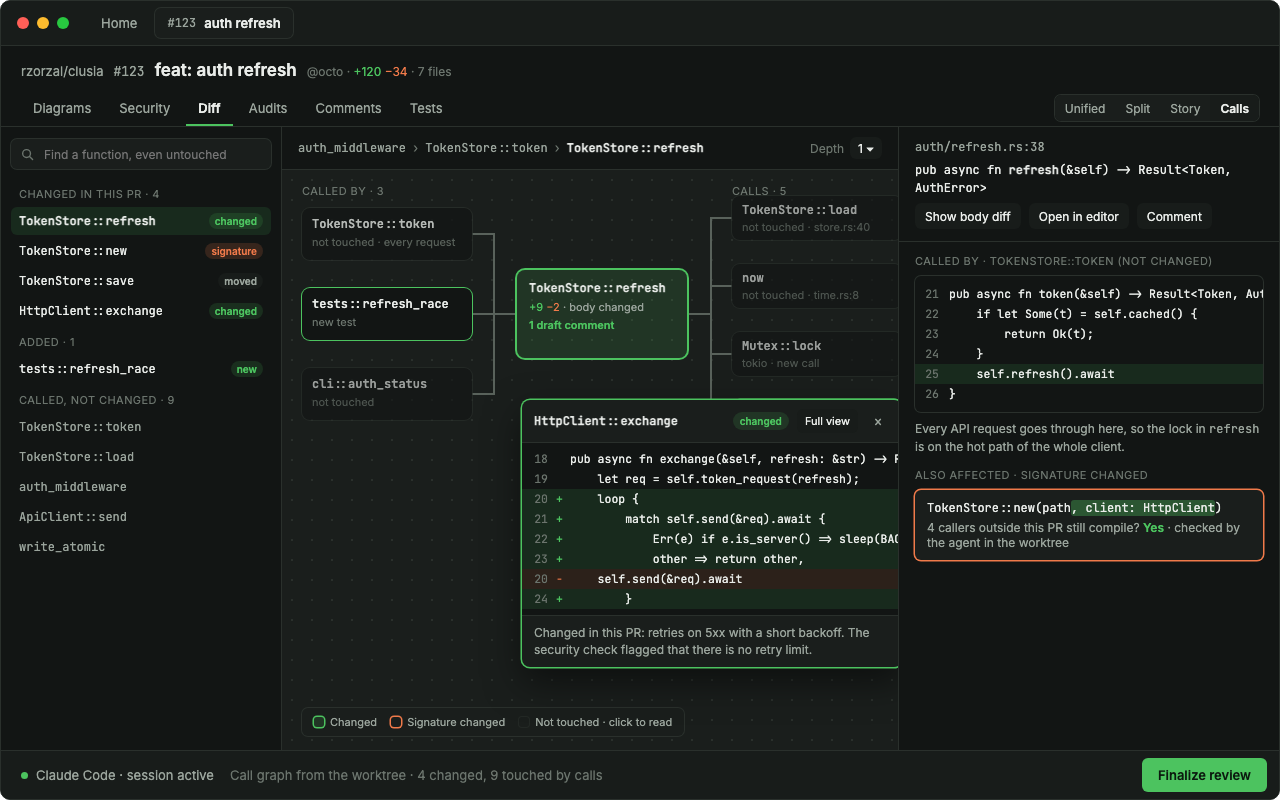
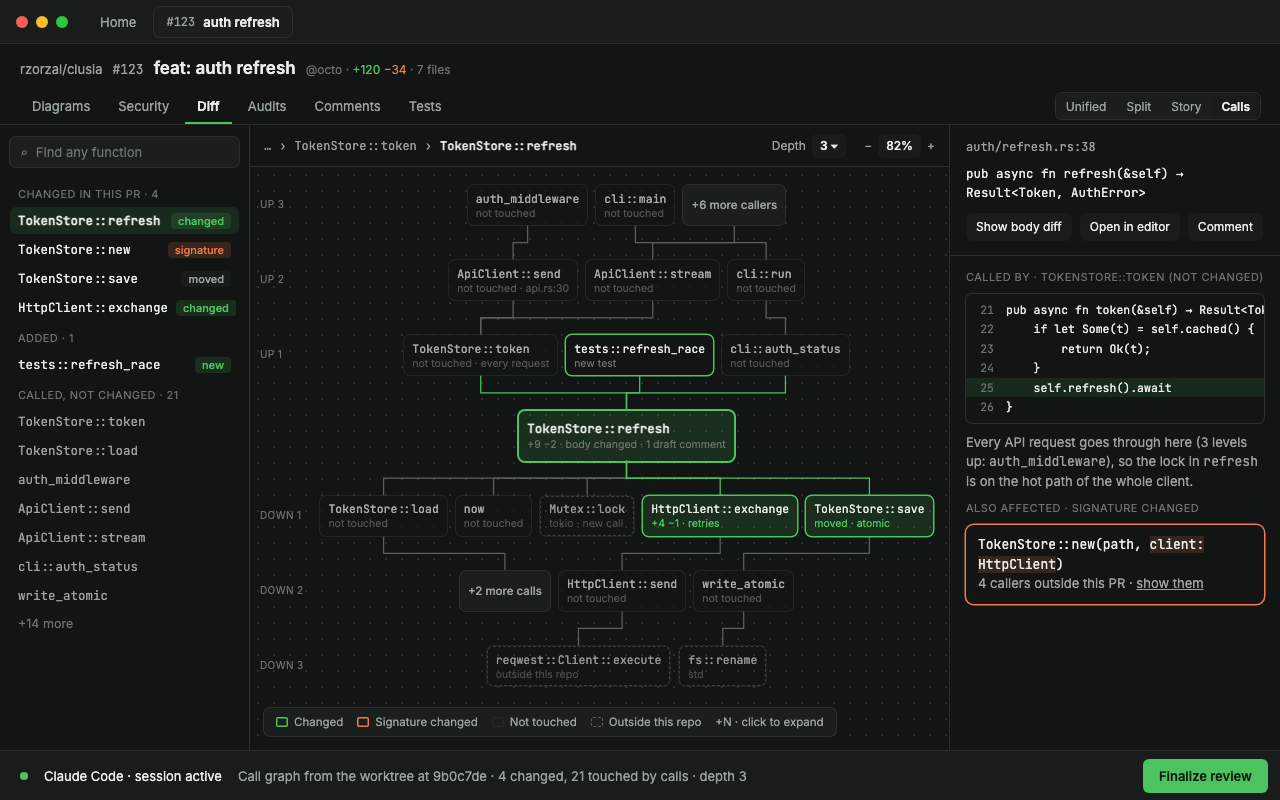
docs: Story and Calls mockups v2, light and dark: use cases, versions, the static story, depth 3 and unsupported languages

diff --git a/docs/mockups/src/DiffStory.html b/docs/mockups/src/DiffStory.html
@@ -1,0 +1,212 @@
+<!doctype html>
+<html lang="en">
+<head>
+<meta charset="utf-8">
+<title>Diff · Story</title>
+<link rel="stylesheet" href="https://fonts.googleapis.com/css2?family=Inter:wght@400;500;600;700&family=JetBrains+Mono:wght@400;500&display=swap">
+<style>
+:root{
+  --bg:#F6F7F5; --chrome:#EEF1EE; --surface:#FFFFFF; --code:#F6F7F5; --line:#E2E6E2; --fg:#1B1F1C; --muted:#5D665F; --faint:#8A938C;
+  --green:#2F9E44; --onGreen:#FFFFFF; --orange:#D9572B; --amber:#C98A04; --amberSoft:rgba(201,138,4,0.12);
+  --greenSoft:rgba(47,158,68,0.12); --orangeSoft:rgba(217,87,43,0.12); --sel:#E9F6EB; --addHl:rgba(47,158,68,0.24);
+}
+:root[data-theme="dark"]{
+  --bg:#121514; --chrome:#181C1A; --surface:#1A1E1C; --code:#121514; --line:#2A302C; --fg:#E9ECE9; --muted:#9AA49C; --faint:#6B746D;
+  --green:#4CC35F; --onGreen:#0C1A0F; --orange:#F07A4A; --amber:#E5AC2E; --amberSoft:rgba(229,172,46,0.14);
+  --greenSoft:rgba(76,195,95,0.14); --orangeSoft:rgba(240,122,74,0.16); --sel:rgba(76,195,95,0.12); --addHl:rgba(76,195,95,0.34);
+}
+*{box-sizing:border-box}
+body{margin:0;background:var(--bg)}
+.win{width:1280px;height:800px;display:flex;flex-direction:column;background:var(--bg);color:var(--fg);font:13px Inter,-apple-system,system-ui,sans-serif;overflow:hidden}
+.mono{font-family:'JetBrains Mono',monospace}
+.title{height:44px;flex:none;display:flex;align-items:center;gap:6px;padding:0 12px 0 16px;background:var(--chrome);border-bottom:1px solid var(--line)}
+.lights{display:flex;gap:8px;margin-right:14px}.lights i{width:12px;height:12px;border-radius:6px;display:block}
+.wtab{height:30px;display:flex;align-items:center;gap:8px;padding:0 12px;border-radius:6px}
+.wtab.on{background:var(--surface);box-shadow:0 0 0 1px var(--line)}
+.head{flex:none;display:flex;align-items:baseline;gap:10px;padding:14px 20px 10px}
+.sections{flex:none;display:flex;align-items:center;gap:4px;padding:0 20px;border-bottom:1px solid var(--line)}
+.sec{height:36px;padding:0 12px;display:flex;align-items:center;color:var(--muted)}
+.sec.on{color:var(--fg);font-weight:600;box-shadow:inset 0 -2px 0 var(--green)}
+.switch{display:flex;border-radius:6px;box-shadow:0 0 0 1px var(--line);overflow:hidden}
+.switch span{height:26px;padding:0 10px;display:flex;align-items:center;background:var(--surface);font-size:12px;color:var(--muted)}
+.switch span.on{background:var(--chrome);color:var(--fg);font-weight:600}
+.body{flex:1;min-height:0;display:flex}
+nav{width:248px;flex:none;display:flex;flex-direction:column;gap:4px;padding:14px 10px;border-right:1px solid var(--line)}
+.cap{color:var(--faint);font-size:11px;letter-spacing:.04em;text-transform:uppercase}
+.ch{display:flex;gap:10px;padding:8px 10px;border-radius:6px}
+.ch.now{background:var(--sel)}
+.ch .dot{width:20px;height:20px;flex:none;border-radius:10px;display:flex;align-items:center;justify-content:center;font-size:11px;font-weight:700;background:var(--chrome);color:var(--muted)}
+.ch.read .dot{background:var(--green);color:var(--onGreen)}
+.ch.now .dot{background:var(--greenSoft);color:var(--green)}
+.ch .t{display:flex;flex-direction:column;gap:2px;min-width:0}
+.ch .meta{color:var(--faint);font-size:11px}
+.ch.mech .name{color:var(--muted)}
+.ch.added{box-shadow:inset 0 0 0 1px var(--green);background-image:none;outline:1px dashed var(--green);outline-offset:-1px;box-shadow:none}
+.ch.changed{box-shadow:inset 0 0 0 1.5px var(--amber)}
+.ch.removed{opacity:.5}.ch.removed .name{text-decoration:line-through}
+.hist{font-size:10px;font-weight:600;padding:1px 6px;border-radius:4px;margin-left:6px}
+.hist.a{background:var(--greenSoft);color:var(--green)}.hist.c{background:var(--amberSoft);color:var(--amber)}.hist.r{background:var(--chrome);color:var(--faint)}
+.foot{padding:8px;color:var(--faint);font-size:11px;line-height:1.45}
+.ver{display:flex;align-items:center;gap:6px;padding:8px;border-top:1px solid var(--line);margin:0 -10px -14px;padding:10px 18px 12px;flex-direction:column;align-items:stretch}
+.ver .row{display:flex;align-items:center;gap:6px;font-size:12px}
+.arrow{width:22px;height:22px;border-radius:5px;display:flex;align-items:center;justify-content:center;box-shadow:0 0 0 1px var(--line);background:var(--surface);color:var(--muted);font-size:10px}
+.arrow.off{opacity:.4}
+.check{display:flex;align-items:center;gap:6px;font-size:12px;color:var(--muted)}
+.box{width:14px;height:14px;border-radius:3px;box-shadow:inset 0 0 0 1px var(--faint);display:flex;align-items:center;justify-content:center;font-size:10px}
+.box.on{background:var(--green);box-shadow:none;color:var(--onGreen)}
+main{flex:1;min-width:0;padding:16px 22px;display:flex;flex-direction:column;gap:12px;overflow:hidden}
+.card{background:var(--surface);border-radius:8px;box-shadow:0 0 0 1px var(--line);padding:14px 16px}
+.card.cur{box-shadow:0 0 0 1.5px var(--green)}
+.card.cur.changed{box-shadow:0 0 0 1.5px var(--amber)}
+.pill{height:22px;padding:0 8px;border-radius:4px;display:inline-flex;align-items:center;background:var(--chrome);font-size:12px}
+.pill.g{background:var(--greenSoft);color:var(--green);font-weight:500}.pill.o{background:var(--orangeSoft);color:var(--orange);font-weight:500}
+.flow{display:flex;align-items:center;gap:8px;color:var(--faint);font-size:12px}
+.uc{display:flex;flex-wrap:wrap;align-items:center;gap:6px;font-size:12px}
+.ucchip{height:22px;padding:0 9px;border-radius:11px;display:inline-flex;align-items:center;gap:6px;box-shadow:inset 0 0 0 1px var(--line);color:var(--fg);background:var(--bg)}
+.ucchip i{width:7px;height:7px;border-radius:4px;display:block}
+.code{background:var(--code);border-radius:6px;padding:8px 0;font:12.5px/1.65 'JetBrains Mono',monospace}
+.code div{display:flex;gap:18px;padding:0 16px;white-space:pre}.code .n{color:var(--faint);width:22px;text-align:right}
+.hl{background:var(--addHl)}
+.linked{display:flex;align-items:center;gap:10px;padding:8px 10px;border-radius:6px;background:var(--bg)}
+.tag{font-size:10px;font-weight:700;letter-spacing:.03em;padding:2px 6px;border-radius:4px}
+.btn{height:30px;padding:0 12px;border-radius:6px;display:inline-flex;align-items:center;background:var(--surface);box-shadow:0 0 0 1px var(--line)}
+.btn.p{background:var(--green);color:var(--onGreen);box-shadow:none;font-weight:600}
+.banner{display:flex;align-items:center;gap:10px;padding:10px 14px;border-radius:8px;font-size:12.5px}
+.banner.warn{background:var(--amberSoft);color:var(--fg)}
+.banner.info{background:var(--chrome);color:var(--muted)}
+.spin{width:12px;height:12px;border-radius:6px;border:2px solid var(--line);border-top-color:var(--green)}
+.status{height:50px;flex:none;display:flex;align-items:center;gap:16px;padding:0 12px 0 20px;background:var(--chrome);border-top:1px solid var(--line)}
+.ghost{color:var(--faint);text-decoration:line-through}
+</style>
+</head>
+<body>
+<div class="win" id="win"></div>
+<script>
+const q = new URLSearchParams(location.search);
+const theme = q.get('theme') || 'light';
+const state = q.get('state') || 'written'; // written | compare | outdated | static
+document.documentElement.dataset.theme = theme;
+const UC = {
+  expired: ['Request with an expired token', '#2F9E44'],
+  twotabs: ['Two requests refresh at once', '#3B82C4'],
+  restart: ['Restart keeps the login', '#9B59B6'],
+};
+const chip = (k) => `<span class="ucchip"><i style="background:${UC[k][1]}"></i>${UC[k][0]}</span>`;
+
+const chapters = {
+  written: [
+    ['read', '✓', 'Refresh one minute early', 'refresh.rs · 3 lines · 1 thread'],
+    ['now', '2', 'One refresh at a time', 'refresh.rs, store.rs · 1 draft comment'],
+    ['', '3', 'Safer saves', 'store.rs · moved block'],
+    ['', '4', 'Tests for the race', 'tests/refresh.rs · new'],
+    ['mech', '5', 'Small and mechanical', 'renames, imports, changelog · 4 files'],
+  ],
+  compare: [
+    ['read', '✓', 'Refresh one minute early', 'refresh.rs · 3 lines · 1 thread', ''],
+    ['now changed', '2', 'One refresh at a time', 'refresh.rs, store.rs · lock released early', 'c'],
+    ['', '3', 'Safer saves', 'store.rs · moved block', ''],
+    ['added', '4', 'Retry with a limit', 'client/http.rs · new in version 2', 'a'],
+    ['', '5', 'Tests for the race', 'tests/refresh.rs · new', ''],
+    ['removed', '–', 'Retry forever on 5xx', 'client/http.rs · gone in version 2', 'r'],
+    ['mech', '6', 'Small and mechanical', 'renames, imports, changelog · 4 files', ''],
+  ],
+  static: [
+    ['now', '1', 'HttpClient::exchange', 'client/http.rs · +4 −1'],
+    ['', '2', 'TokenStore::save', 'auth/store.rs · moved, +6 −1'],
+    ['', '3', 'TokenStore::new', 'auth/store.rs · signature'],
+    ['', '4', 'TokenStore::refresh', 'auth/refresh.rs · +9 −2'],
+    ['', '5', 'tests::refresh_race', 'tests/refresh.rs · new'],
+    ['mech', '6', 'Other files', 'CHANGELOG.md, mod.rs, Cargo.toml · 4 files'],
+  ],
+};
+chapters.outdated = chapters.written;
+const list = chapters[state];
+const histLabel = { a: 'added', c: 'changed', r: 'removed' };
+const navItems = list.map(([cls, mark, name, meta, h]) => `
+  <div class="ch ${cls}"><span class="dot">${mark}</span><span class="t">
+    <span class="name" style="font-weight:${cls.includes('now') ? 600 : 400}">${name}${h ? `<span class="hist ${h}">${histLabel[h]}</span>` : ''}</span>
+    <span class="meta">${meta}</span></span></div>`).join('');
+
+const verBlock = state === 'static' ? `
+  <div class="foot">Ordered from the code: each function comes after the ones it calls. Claude Code is writing names, a summary and the use cases.</div>`
+  : `
+  <div class="foot">Steps are ordered so each one only needs the ones before it. Written by Claude Code from commit <span class="mono">${state === 'compare' ? '9b0c7de' : '3f2a91c'}</span>; every line still links to the real diff.</div>
+  <div class="ver">
+    ${state === 'compare'
+      ? '<div class="row"><span class="arrow">◀</span><span style="flex:1;text-align:center">Version 2 of 2</span><span class="arrow off">▶</span></div><div class="check"><span class="box on">✓</span>Show changes since version 1</div>'
+      : '<div class="row"><span class="arrow off">◀</span><span style="flex:1;text-align:center">Version 1 of 1</span><span class="arrow off">▶</span></div>'}
+  </div>`;
+
+const summary = state === 'static' ? '' : `
+  <div class="card" style="display:flex;flex-direction:column;gap:10px">
+    <div style="line-height:1.5"><b>In one sentence:</b> tokens are now refreshed a minute before they expire, and only one request refreshes at a time; the others wait and reuse the new token.</div>
+    <div class="flow"><span style="width:44px">Before</span><span class="pill">request A</span>→<span class="pill">exchange</span><span style="width:12px"></span><span class="pill">request B</span>→<span class="pill o">exchange again · rejected</span></div>
+    <div class="flow"><span style="width:44px">After</span><span class="pill">request A</span>→<span class="pill g">lock</span>→<span class="pill">exchange</span><span style="width:12px"></span><span class="pill">request B</span>→<span class="pill">waits</span>→<span class="pill g">reuses the new token</span></div>
+    <div class="uc"><span style="color:var(--faint);width:${state === 'outdated' ? 'auto' : 'auto'}">Use cases it touches</span>${chip('expired')}${chip('twotabs')}${chip('restart')}</div>
+  </div>`;
+
+const banners = {
+  outdated: `<div class="banner warn"><span style="color:var(--amber);font-weight:700">●</span><span style="flex:1">Written for commit <span class="mono">3f2a91c</span>. The pull request is now at <span class="mono">9b0c7de</span> (2 new commits); the steps on the left still follow the old commit.</span><span class="btn p" style="height:26px">Rewrite</span></div>`,
+  static: `<div class="banner info"><span class="spin"></span><span style="flex:1">Claude Code is writing the story: names, a summary and the use cases. Meanwhile the steps follow the code, each function after the ones it calls.</span><span class="btn" style="height:26px">Stop</span></div>`,
+  compare: `<div class="banner info" style="gap:14px"><b style="color:var(--fg)">Changes since version 1</b>
+     <span style="display:flex;align-items:center;gap:6px"><span style="width:14px;height:10px;border-radius:2px;outline:1px dashed var(--green)"></span>Added</span>
+     <span style="display:flex;align-items:center;gap:6px"><span style="width:14px;height:10px;border-radius:2px;box-shadow:inset 0 0 0 1.5px var(--amber)"></span>Changed</span>
+     <span style="display:flex;align-items:center;gap:6px"><span class="ghost">Removed</span></span>
+     <span style="flex:1"></span><span>1 added · 1 changed · 1 removed</span></div>`,
+};
+
+const stepCode = state === 'compare'
+  ? [[12, '    refresh_lock: Mutex<()>,', 0], [44, '    let fresh = {', 1], [45, '        let _guard = self.refresh_lock.lock().await;', 1], [46, '        self.reuse_or_exchange(&token).await?', 1], [47, '    };', 1]]
+  : [[12, '    refresh_lock: Mutex<()>,', 1], [43, '    }', 0], [44, '    let _guard = self.refresh_lock.lock().await;', 1], [45, '    let fresh = self.client.exchange(&token.refresh).await?;', 0]];
+const code = stepCode.map(([n, c, h]) => `<div><span class="n">${n}</span><span class="${h ? 'hl' : ''}">${c.replace(/</g, '&lt;')}</span></div>`).join('');
+
+const step = state === 'static' ? `
+  <div class="card cur" style="display:flex;flex-direction:column;gap:12px">
+    <div style="display:flex;align-items:baseline;gap:10px"><span style="color:var(--green);font-weight:700">1</span><span style="font-size:15px;font-weight:600" class="mono">HttpClient::exchange</span><span style="flex:1"></span><span class="mono" style="font-size:11px;color:var(--muted)">http.rs:18</span></div>
+    <div style="color:var(--muted)">Changed body · called by <span class="mono">TokenStore::refresh</span> · comes first because nothing it calls changed.</div>
+    <div class="code">
+      <div><span class="n">18</span><span>pub async fn exchange(&amp;self, refresh: &amp;str) -&gt; Result&lt;Token&gt; {</span></div>
+      <div><span class="n">20</span><span class="hl">    loop {</span></div>
+      <div><span class="n">21</span><span class="hl">        match self.send(&amp;req).await {</span></div>
+      <div><span class="n">22</span><span class="hl">            Err(e) if e.is_server() =&gt; sleep(BACKOFF).await,</span></div>
+    </div>
+    <div style="display:flex;align-items:center;gap:12px"><span class="btn">Comment on this step</span><span style="text-decoration:underline;color:var(--muted)">Show the full diff</span><span style="flex:1"></span><span class="btn p">Mark read · next: TokenStore::save →</span></div>
+  </div>
+  <div class="card" style="display:flex;align-items:center;gap:10px;padding:12px 16px"><span style="color:var(--faint);font-weight:700">2</span><span class="mono" style="font-weight:600">TokenStore::save</span><span style="color:var(--muted)">moved from store.rs:20 to :88 · 34 lines only moved, 6 changed.</span></div>`
+  : `
+  <div class="card cur ${state === 'compare' ? 'changed' : ''}" style="display:flex;flex-direction:column;gap:10px">
+    <div style="display:flex;align-items:baseline;gap:10px"><span style="color:var(--green);font-weight:700">2</span><span style="font-size:15px;font-weight:600">One refresh at a time</span>${state === 'compare' ? '<span class="hist c">changed</span>' : ''}<span style="flex:1"></span><span class="mono" style="font-size:11px;color:var(--muted)">refresh.rs:44 · store.rs:12</span></div>
+    <div style="color:var(--muted);line-height:1.5">${state === 'compare'
+      ? 'A new lock makes concurrent callers queue behind the first one. <b style="color:var(--fg)">Since version 1:</b> the lock is released before the token is saved, so a slow disk no longer blocks requests.'
+      : 'A new lock makes concurrent callers queue behind the first one. From the commit <i>“serialize refreshes so the token is exchanged once”</i>.'}</div>
+    <div class="uc"><span style="color:var(--faint)">Use cases</span>${chip('twotabs')}${chip('expired')}</div>
+    <div class="code">${code}</div>
+    <div class="linked"><span class="tag" style="background:var(--greenSoft);color:var(--green)">YOUR DRAFT</span><span style="flex:1">Holding the lock across the network call means a slow exchange blocks every request.</span><span style="color:var(--faint)">You</span></div>
+    <div class="linked"><span class="tag" style="background:var(--orangeSoft);color:var(--orange)">AUDIT</span><span style="flex:1">The refresh lock is held across a network call (Concurrency)</span><span style="color:var(--faint)">Claude Code</span></div>
+    <div style="display:flex;align-items:center;gap:12px"><span class="btn">Comment on this step</span><span style="text-decoration:underline;color:var(--muted)">Show the full diff</span><span style="flex:1"></span><span class="btn p">Mark read · next: Safer saves →</span></div>
+  </div>
+  <div class="card" style="display:flex;align-items:center;gap:10px;padding:12px 16px"><span style="color:var(--faint);font-weight:700">3</span><b>Safer saves</b><span style="color:var(--muted)">save() moved from store.rs:20 to :88 and now writes to a temp file first.</span><span style="flex:1"></span>${chip('restart')}</div>`;
+
+const statusText = {
+  written: 'Draft saved · 4 items · 1 of 5 steps read',
+  outdated: 'Draft saved · 4 items · story from an older commit',
+  compare: 'Draft saved · 4 items · comparing story versions 1 → 2',
+  static: 'Draft saved · 4 items · writing the story',
+}[state];
+const steps = state === 'compare' ? 6 : state === 'static' ? 6 : 5;
+
+document.getElementById('win').innerHTML = `
+<div class="title"><div class="lights"><i style="background:#ff5f57"></i><i style="background:#febc2e"></i><i style="background:#28c840"></i></div>
+  <span class="wtab" style="color:var(--muted)">Home</span><span class="wtab on"><span class="mono" style="font-size:12px;color:var(--muted)">#123</span><b style="font-weight:600">auth refresh</b></span></div>
+<div class="head"><span style="color:var(--muted)">rzorzal/clusia</span><span class="mono" style="color:var(--muted)">#123</span><span style="font-size:17px;font-weight:600">feat: auth refresh</span><span style="color:var(--faint);font-size:12px">@octo · <span style="color:var(--green)">+120</span> <span style="color:var(--orange)">−34</span> · 7 files</span></div>
+<div class="sections">${['Diagrams', 'Security', 'Diff', 'Audits', 'Comments', 'Tests'].map((s) => `<span class="sec ${s === 'Diff' ? 'on' : ''}">${s}</span>`).join('')}<span style="flex:1"></span>
+  <div class="switch"><span>Unified</span><span>Split</span><span class="on">Story</span><span>Calls</span></div></div>
+<div class="body">
+  <nav><div style="display:flex;align-items:center;gap:8px;padding:0 8px 8px"><span class="cap" style="flex:1">The change in ${steps} steps</span><span class="cap" style="text-transform:none">${state === 'static' ? '0' : '1'} of ${steps} read</span></div>
+    ${navItems}<div style="flex:1"></div>${verBlock}</nav>
+  <main>${banners[state] || ''}${summary}${step}</main>
+</div>
+<div class="status"><span style="width:8px;height:8px;border-radius:4px;background:var(--green)"></span><span>Claude Code · ${state === 'static' ? 'writing the story' : 'session active'}</span><span style="color:var(--muted)">${statusText}</span><span style="flex:1"></span><span class="btn p" style="height:34px;padding:0 16px">Finalize review</span></div>`;
+</script>
+</body>
+</html>

diff --git a/docs/mockups/src/DiffCalls.html b/docs/mockups/src/DiffCalls.html
@@ -1,0 +1,178 @@
+<!doctype html>
+<html lang="en">
+<head>
+<meta charset="utf-8">
+<title>Diff · Calls</title>
+<link rel="stylesheet" href="https://fonts.googleapis.com/css2?family=Inter:wght@400;500;600;700&family=JetBrains+Mono:wght@400;500&display=swap">
+<style>
+:root{
+  --bg:#F6F7F5; --chrome:#EEF1EE; --surface:#FFFFFF; --code:#F6F7F5; --line:#E2E6E2; --fg:#1B1F1C; --muted:#5D665F; --faint:#8A938C;
+  --green:#2F9E44; --onGreen:#FFFFFF; --orange:#D9572B; --greenSoft:rgba(47,158,68,0.12); --orangeSoft:rgba(217,87,43,0.12);
+  --sel:#E9F6EB; --dot:#DDE2DD; --edge:#A4ACA6; --callHl:rgba(47,158,68,0.10);
+}
+:root[data-theme="dark"]{
+  --bg:#121514; --chrome:#181C1A; --surface:#1A1E1C; --code:#121514; --line:#2A302C; --fg:#E9ECE9; --muted:#9AA49C; --faint:#6B746D;
+  --green:#4CC35F; --onGreen:#0C1A0F; --orange:#F07A4A; --greenSoft:rgba(76,195,95,0.14); --orangeSoft:rgba(240,122,74,0.16);
+  --sel:rgba(76,195,95,0.12); --dot:#2A302C; --edge:#59625B; --callHl:rgba(76,195,95,0.12);
+}
+*{box-sizing:border-box}
+body{margin:0;background:var(--bg)}
+.win{width:1280px;height:800px;display:flex;flex-direction:column;background:var(--bg);color:var(--fg);font:13px Inter,-apple-system,system-ui,sans-serif;overflow:hidden}
+.mono{font-family:'JetBrains Mono',monospace}
+.title{height:44px;flex:none;display:flex;align-items:center;gap:6px;padding:0 12px 0 16px;background:var(--chrome);border-bottom:1px solid var(--line)}
+.lights{display:flex;gap:8px;margin-right:14px}.lights i{width:12px;height:12px;border-radius:6px;display:block}
+.wtab{height:30px;display:flex;align-items:center;gap:8px;padding:0 12px;border-radius:6px}
+.wtab.on{background:var(--surface);box-shadow:0 0 0 1px var(--line)}
+.head{flex:none;display:flex;align-items:baseline;gap:10px;padding:14px 20px 10px}
+.sections{flex:none;display:flex;align-items:center;gap:4px;padding:0 20px;border-bottom:1px solid var(--line)}
+.sec{height:36px;padding:0 12px;display:flex;align-items:center;color:var(--muted)}
+.sec.on{color:var(--fg);font-weight:600;box-shadow:inset 0 -2px 0 var(--green)}
+.switch{display:flex;border-radius:6px;box-shadow:0 0 0 1px var(--line);overflow:hidden}
+.switch span{height:26px;padding:0 10px;display:flex;align-items:center;background:var(--surface);font-size:12px;color:var(--muted)}
+.switch span.on{background:var(--chrome);color:var(--fg);font-weight:600}
+.body{flex:1;min-height:0;display:flex}
+aside.list{width:250px;flex:none;display:flex;flex-direction:column;gap:2px;padding:12px 10px;border-right:1px solid var(--line);overflow:hidden}
+.search{height:30px;border-radius:6px;box-shadow:0 0 0 1px var(--line);background:var(--surface);display:flex;align-items:center;gap:8px;padding:0 10px;color:var(--faint);margin-bottom:10px}
+.cap{color:var(--faint);font-size:11px;letter-spacing:.04em;text-transform:uppercase;padding:8px 8px 4px}
+.fn{display:flex;align-items:center;gap:8px;padding:5px 8px;border-radius:6px;font:12.5px 'JetBrains Mono',monospace}
+.fn.on{background:var(--sel);font-weight:600}.fn.called{color:var(--muted)}
+.tg{margin-left:auto;font:500 11px Inter,sans-serif;padding:1px 7px;border-radius:4px}
+.tg.g{background:var(--greenSoft);color:var(--green)}.tg.o{background:var(--orangeSoft);color:var(--orange)}.tg.m{background:var(--chrome);color:var(--muted)}
+.canvaswrap{flex:1;min-width:0;display:flex;flex-direction:column;border-right:1px solid var(--line)}
+.chead{height:42px;flex:none;display:flex;align-items:center;gap:8px;padding:0 14px;border-bottom:1px solid var(--line);font:12px 'JetBrains Mono',monospace;color:var(--muted)}
+.ctl{white-space:nowrap;display:flex;align-items:center;gap:6px;font:12px Inter,sans-serif;color:var(--muted)}
+.sel{white-space:nowrap;height:24px;padding:0 8px;border-radius:5px;background:var(--chrome);display:flex;align-items:center;gap:6px;color:var(--fg);font-weight:600}
+.canvas{position:relative;flex:1;min-height:0;background-image:radial-gradient(var(--dot) 1px,transparent 1px);background-size:16px 16px;overflow:hidden}
+.rows{position:absolute;inset:0;display:flex;flex-direction:column;justify-content:space-between;padding:18px 10px 64px 64px}
+.row{display:flex;justify-content:center;gap:9px;position:static;z-index:1}
+.rowwrap{position:relative}
+.lvl{position:absolute;left:-54px;top:13px;width:48px;font:10px Inter,sans-serif;color:var(--faint);letter-spacing:.04em;text-transform:uppercase}
+.node{height:40px;padding:4px 8px;border-radius:6px;background:var(--bg);box-shadow:0 0 0 1px var(--line);display:flex;flex-direction:column;justify-content:center;gap:1px;font:11.5px 'JetBrains Mono',monospace;white-space:nowrap}
+.node .m{font:10.5px Inter,sans-serif;color:var(--faint)}
+.node.untouched{opacity:.7}
+.node.outside{opacity:.6;box-shadow:0 0 0 1px var(--line);background:transparent;border:1px dashed var(--edge)}
+.node.changed{background:var(--greenSoft);box-shadow:0 0 0 1.5px var(--green)}.node.changed .m{color:var(--green)}
+.node.added{box-shadow:0 0 0 1.5px var(--green)}
+.node.sig{box-shadow:0 0 0 1.5px var(--orange)}
+.node.center{height:50px;background:var(--greenSoft);box-shadow:0 0 0 2px var(--green);font-weight:600;font-size:12.5px}
+.node.more{background:var(--surface);box-shadow:0 0 0 1px var(--line);color:var(--muted);font:500 11.5px Inter,sans-serif;justify-content:center}
+svg.edges{position:absolute;inset:0;width:100%;height:100%;z-index:0}
+.legend{position:absolute;left:14px;bottom:14px;z-index:2;display:flex;gap:14px;align-items:center;padding:7px 12px;border-radius:6px;background:var(--surface);box-shadow:0 0 0 1px var(--line);font-size:11.5px;color:var(--muted)}
+.legend i{display:inline-block;width:12px;height:10px;border-radius:2px;margin-right:6px;vertical-align:-1px}
+aside.panel{width:330px;flex:none;display:flex;flex-direction:column;overflow:hidden}
+.ps{padding:14px 16px;border-bottom:1px solid var(--line);display:flex;flex-direction:column;gap:10px}
+.btn{height:28px;padding:0 10px;border-radius:6px;display:inline-flex;align-items:center;background:var(--chrome);font-size:12px}
+.code{background:var(--code);border-radius:6px;box-shadow:0 0 0 1px var(--line);padding:6px 0;font:11.5px/1.7 'JetBrains Mono',monospace;overflow:hidden}
+.code div{display:flex;gap:12px;padding:0 10px;white-space:pre}.code .n{color:var(--faint);width:18px;text-align:right;flex:none}
+.status{height:50px;flex:none;display:flex;align-items:center;gap:16px;padding:0 12px 0 20px;background:var(--chrome);border-top:1px solid var(--line)}
+.p{height:34px;padding:0 16px;border-radius:6px;display:inline-flex;align-items:center;background:var(--green);color:var(--onGreen);font-weight:600}
+.empty{position:absolute;inset:0;display:flex;align-items:center;justify-content:center;z-index:2}
+.emptycard{width:440px;background:var(--surface);border-radius:8px;box-shadow:0 0 0 1px var(--line);padding:22px 24px;display:flex;flex-direction:column;gap:10px;line-height:1.5}
+</style>
+</head>
+<body>
+<div class="win" id="win"></div>
+<script>
+const q = new URLSearchParams(location.search);
+document.documentElement.dataset.theme = q.get('theme') || 'light';
+const state = q.get('state') || 'graph'; // graph | unsupported
+
+const N = (id, name, meta, kind) => ({ id, name, meta, kind });
+const rows = [
+  ['Up 3', [N('mw', 'auth_middleware', 'not touched', 'untouched'), N('main', 'cli::main', 'not touched', 'untouched'), N('m1', '+6 more callers', '', 'more')]],
+  ['Up 2', [N('send', 'ApiClient::send', 'not touched · api.rs:30', 'untouched'), N('stream', 'ApiClient::stream', 'not touched', 'untouched'), N('run', 'cli::run', 'not touched', 'untouched')]],
+  ['Up 1', [N('token', 'TokenStore::token', 'not touched · every request', 'untouched'), N('race', 'tests::refresh_race', 'new test', 'added'), N('status', 'cli::auth_status', 'not touched', 'untouched')]],
+  ['', [N('refresh', 'TokenStore::refresh', '+9 −2 · body changed · 1 draft comment', 'center')]],
+  ['Down 1', [N('load', 'TokenStore::load', 'not touched', 'untouched'), N('now', 'now', 'not touched', 'untouched'), N('lock', 'Mutex::lock', 'tokio · new call', 'outside'), N('ex', 'HttpClient::exchange', '+4 −1 · retries', 'changed'), N('save', 'TokenStore::save', 'moved · atomic', 'changed')]],
+  ['Down 2', [N('m2', '+2 more calls', '', 'more'), N('hsend', 'HttpClient::send', 'not touched', 'untouched'), N('wa', 'write_atomic', 'not touched', 'untouched')]],
+  ['Down 3', [N('exec', 'reqwest::Client::execute', 'outside this repo', 'outside'), N('ren', 'fs::rename', 'std', 'outside')]],
+];
+const edges = [['mw', 'send'], ['main', 'run'], ['m1', 'stream'], ['send', 'token'], ['stream', 'token'], ['run', 'status'],
+  ['token', 'refresh'], ['race', 'refresh'], ['status', 'refresh'],
+  ['refresh', 'load'], ['refresh', 'now'], ['refresh', 'lock'], ['refresh', 'ex'], ['refresh', 'save'],
+  ['load', 'm2'], ['ex', 'hsend'], ['save', 'wa'], ['hsend', 'exec'], ['wa', 'ren']];
+const green = new Set(['token>refresh', 'race>refresh', 'status>refresh', 'refresh>ex', 'refresh>save']);
+
+const fn = (name, tag, cls, on) => `<div class="fn ${on ? 'on' : ''} ${cls || ''}">${name}${tag ? `<span class="tg ${tag[1]}">${tag[0]}</span>` : ''}</div>`;
+const list = state === 'unsupported' ? `
+  <div class="search"><span>⌕</span>Find any function</div>
+  <div class="cap">Changed in this PR · 4</div>
+  ${fn('TokenStore::refresh', ['changed', 'g'])}${fn('TokenStore::new', ['signature', 'o'])}${fn('TokenStore::save', ['moved', 'm'])}${fn('HttpClient::exchange', ['changed', 'g'])}
+  <div class="cap">No call graph yet · 2 files</div>
+  <div class="fn on" style="font-family:'JetBrains Mono',monospace">server/handler.go<span class="tg m">Go</span></div>
+  <div class="fn called">server/limits.go<span class="tg m">Go</span></div>`
+  : `
+  <div class="search"><span>⌕</span>Find any function</div>
+  <div class="cap">Changed in this PR · 4</div>
+  ${fn('TokenStore::refresh', ['changed', 'g'], '', true)}${fn('TokenStore::new', ['signature', 'o'])}${fn('TokenStore::save', ['moved', 'm'])}${fn('HttpClient::exchange', ['changed', 'g'])}
+  <div class="cap">Added · 1</div>${fn('tests::refresh_race', ['new', 'g'])}
+  <div class="cap">Called, not changed · 21</div>
+  ${['TokenStore::token', 'TokenStore::load', 'auth_middleware', 'ApiClient::send', 'ApiClient::stream', 'cli::auth_status', 'write_atomic'].map((n) => fn(n, null, 'called')).join('')}
+  <div class="fn called" style="font-family:Inter;color:var(--faint)">+14 more</div>`;
+
+const canvas = state === 'unsupported' ? `
+  <div class="chead"><span style="color:var(--fg);font-weight:600">server/handler.go</span><span style="flex:1"></span></div>
+  <div class="canvas"><div class="empty"><div class="emptycard">
+    <b style="font-size:15px">Call graph not available for Go yet</b>
+    <span style="color:var(--muted)">Clúsia draws calls for Rust, TypeScript, JavaScript and Python. A plugin can add more languages.</span>
+    <span style="color:var(--muted)">The change in <span class="mono">server/handler.go</span> is still in <b style="color:var(--fg)">Story</b> and in the <b style="color:var(--fg)">Unified</b> diff.</span>
+    <div style="display:flex;gap:8px;margin-top:4px"><span class="btn">Show in Unified</span><span class="btn">Open in Story</span></div>
+  </div></div></div>`
+  : `
+  <div class="chead"><span>…</span>›<span>TokenStore::token</span>›<span style="color:var(--fg);font-weight:600">TokenStore::refresh</span><span style="flex:1"></span>
+    <span class="ctl">Depth<span class="sel">3 ▾</span></span><span class="ctl" style="margin-left:10px">−<span class="sel" style="font-weight:500">82%</span>+</span></div>
+  <div class="canvas" id="cv">
+    <svg class="edges" id="svg"></svg>
+    <div class="rows">${rows.map(([lbl, ns]) => `<div class="row" style="position:relative"><span class="lvl">${lbl}</span>${ns.map((n) => `<div class="node ${n.kind}" data-id="${n.id}"><span>${n.name}</span>${n.meta ? `<span class="m">${n.meta}</span>` : ''}</div>`).join('')}</div>`).join('')}</div>
+    <div class="legend"><span><i style="box-shadow:inset 0 0 0 1.5px var(--green)"></i>Changed</span><span><i style="box-shadow:inset 0 0 0 1.5px var(--orange)"></i>Signature changed</span><span><i style="box-shadow:inset 0 0 0 1px var(--line);opacity:.7"></i>Not touched</span><span><i style="border:1px dashed var(--edge)"></i>Outside this repo</span><span>+N · click to expand</span></div>
+  </div>`;
+
+const panel = state === 'unsupported' ? `
+  <div class="ps"><span class="mono" style="color:var(--muted);font-size:12px">server/handler.go</span><span style="color:var(--muted)">+18 −4 · 2 hunks</span><div style="display:flex;gap:8px"><span class="btn">Show diff</span><span class="btn">Open in editor</span><span class="btn">Comment</span></div></div>`
+  : `
+  <div class="ps"><span class="mono" style="color:var(--muted);font-size:12px">auth/refresh.rs:38</span>
+    <span class="mono" style="font-size:12.5px;line-height:1.5">pub async fn refresh(&amp;self) → Result&lt;Token, AuthError&gt;</span>
+    <div style="display:flex;gap:8px"><span class="btn">Show body diff</span><span class="btn">Open in editor</span><span class="btn">Comment</span></div></div>
+  <div class="ps" style="border:none"><span class="cap" style="padding:0">Called by · TokenStore::token (not changed)</span>
+    <div class="code">
+      <div><span class="n">21</span>pub async fn token(&amp;self) → Result&lt;Token&gt; {</div>
+      <div><span class="n">22</span>    if let Some(t) = self.cached() {</div>
+      <div><span class="n">23</span>        return Ok(t);</div>
+      <div><span class="n">24</span>    }</div>
+      <div style="background:var(--callHl)"><span class="n">25</span>    self.refresh().await</div>
+      <div><span class="n">26</span>}</div>
+    </div>
+    <span style="color:var(--muted);line-height:1.5">Every API request goes through here (3 levels up: <span class="mono">auth_middleware</span>), so the lock in <span class="mono">refresh</span> is on the hot path of the whole client.</span>
+    <span class="cap" style="padding:0">Also affected · signature changed</span>
+    <div style="border-radius:8px;box-shadow:0 0 0 1.5px var(--orange);padding:10px 12px;line-height:1.5"><span class="mono">TokenStore::new(path, <span style="background:var(--orangeSoft)">client: HttpClient</span>)</span><br><span style="color:var(--muted)">4 callers outside this PR · </span><span style="text-decoration:underline;color:var(--muted)">show them</span></div>
+  </div>`;
+
+document.getElementById('win').innerHTML = `
+<div class="title"><div class="lights"><i style="background:#ff5f57"></i><i style="background:#febc2e"></i><i style="background:#28c840"></i></div>
+  <span class="wtab" style="color:var(--muted)">Home</span><span class="wtab on"><span class="mono" style="font-size:12px;color:var(--muted)">#123</span><b style="font-weight:600">auth refresh</b></span></div>
+<div class="head"><span style="color:var(--muted)">rzorzal/clusia</span><span class="mono" style="color:var(--muted)">#123</span><span style="font-size:17px;font-weight:600">feat: auth refresh</span><span style="color:var(--faint);font-size:12px">@octo · <span style="color:var(--green)">+120</span> <span style="color:var(--orange)">−34</span> · 7 files</span></div>
+<div class="sections">${['Diagrams', 'Security', 'Diff', 'Audits', 'Comments', 'Tests'].map((s) => `<span class="sec ${s === 'Diff' ? 'on' : ''}">${s}</span>`).join('')}<span style="flex:1"></span>
+  <div class="switch"><span>Unified</span><span>Split</span><span>Story</span><span class="on">Calls</span></div></div>
+<div class="body"><aside class="list">${list}</aside><div class="canvaswrap">${canvas}</div><aside class="panel">${panel}</aside></div>
+<div class="status"><span style="width:8px;height:8px;border-radius:4px;background:var(--green)"></span><span>Claude Code · session active</span><span style="color:var(--muted)">${state === 'unsupported' ? 'Call graph from the worktree · Rust, TypeScript, JavaScript, Python' : 'Call graph from the worktree at 9b0c7de · 4 changed, 21 touched by calls · depth 3'}</span><span style="flex:1"></span><span class="p">Finalize review</span></div>`;
+
+function draw() {
+  const cv = document.getElementById('cv');
+  if (!cv) return;
+  const base = cv.getBoundingClientRect();
+  const box = (id) => cv.querySelector(`[data-id="${id}"]`).getBoundingClientRect();
+  let paths = '';
+  for (const [a, b] of edges) {
+    const A = box(a), B = box(b);
+    const x1 = A.left + A.width / 2 - base.left, y1 = A.bottom - base.top;
+    const x2 = B.left + B.width / 2 - base.left, y2 = B.top - base.top;
+    const ym = (y1 + y2) / 2;
+    const c = green.has(`${a}>${b}`) ? 'var(--green)' : 'var(--edge)';
+    paths += `<path d="M${x1} ${y1} V${ym} H${x2} V${y2}" fill="none" stroke="${c}" stroke-width="1.25"/>`;
+  }
+  document.getElementById('svg').innerHTML = paths;
+}
+document.fonts.ready.then(draw);
+</script>
+</body>
+</html>
